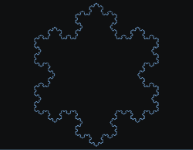
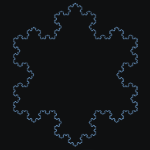
Add New Atlas & Internship projects
Resize older game thumbs to keep consistent

Fix mobile zooming by specifying viewport meta tag in head

Changed region(s): [[0.0, 0.0267, 1.0, 1.0], [0.08, 0.0267, 0.48, 0.96], [0.48, 0.0, 0.5067, 0.0267]]

diff --git a/_includes/projects.html b/_includes/projects.html
@@ -20,22 +20,36 @@
 
   <div class="row user-projects">
     <div class="six columns images">
-      <a href="/tangent"><img alt="tangent" src="{{ "/assets/img/tangent-01.jpg" | prepend: site.baseurl }}" /></a>
+      <a href="/new-atlas"><img alt="new atlas" src="{{ "/assets/img/new-atlas-thumb-02.jpg" | prepend: site.baseurl }}" /></a>
     </div>
     <div class="six columns">
-      <h5>Tangent</h5>
+      <h5>New Atlas</h5>
       <ul>
-        <!-- <li style="font-size: 0.9em; font-weight: bold">Personal project</li> -->
-        <li>C++, DirectX 11, HLSL</li>
+        <li>C++, Unreal Engine 4</li>
       </ul>
-      <p>A single-player racing game made in about a week. Utlizes geometry shaders to generate meshes based on a Bézier Curve</p>
-      <a class="project-link" href="/tangent">Check it out</a>
+      <p>Real-time strategy game made with five team members over a few months</p>
+      <a class="project-link" href="/new-atlas">Check it out</a>
     </div>
   </div>
 
+    <!--
+      <div class="row user-projects">
+        <div class="six columns images">
+          <a href="/tangent"><img alt="tangent" src="{{ "/assets/img/tangent-01.jpg" | prepend: site.baseurl }}" /></a>
+        </div>
+        <div class="six columns">
+          <h5>Tangent</h5>
+          <ul>
+            <li>C++, DirectX 11, HLSL</li>
+          </ul>
+          <p>A single-player racing game made in about a week. Utlizes geometry shaders to generate meshes based on a Bézier Curve</p>
+          <a class="project-link" href="/tangent">Check it out</a>
+        </div>
+      </div> -->
+
   <div class="row user-projects">
     <div class="six columns">
-      <a href="/redshift"><img alt="rubiks cube simulator" src="{{ "http://i.imgur.com/r5ILceh.png" | prepend: site.baseurl }}" /></a>
+      <a href="/redshift"><img alt="redshift" src="{{ "http://i.imgur.com/r5ILceh.png" | prepend: site.baseurl }}" /></a>
     </div>
     <div class="six columns">
       <h5>Redshift</h5>
@@ -48,20 +62,33 @@
     </div>
   </div>
 
-  <div class="row user-projects">
+    <div class="row user-projects">
+      <div class="six columns images">
+        <a href="/electric-square"><img alt="electric square" src="{{ "/assets/img/es-logo.jpg" | prepend: site.baseurl }}" /></a>
+      </div>
+      <div class="six columns">
+        <h5>Electric Square</h5>
+        <ul>
+          <li>C++</li>
+        </ul>
+        <p>Four month game programmer internship</p>
+        <a class="project-link" href="/electric-square">Check it out</a>
+      </div>
+    </div>
+
+  <!-- <div class="row user-projects">
     <div class="six columns images">
       <a href="/hexahover"><img alt="hexahover" src="{{ "/assets/img/hexahover-01.jpg" | prepend: site.baseurl }}" /></a>
     </div>
     <div class="six columns">
       <h5>HexaHover</h5>
       <ul>
-        <!-- <li style="font-size: 0.9em; font-weight: bold">Group game jam entry</li> -->
         <li>C#, Unity</li>
       </ul>
       <p>An entry into the Ludum Dare game jam competition made with two friends in 72 hours</p>
       <a class="project-link" href="/hexahover">Check it out</a>
     </div>
-  </div>
+  </div> -->
 
   <!-- <div class="row user-projects">
     <div class="six columns">

diff --git a/games/index.html b/games/index.html
@@ -43,27 +43,35 @@ title: Games
 
 <h2>Older Games</h2>
 
-<p>On this page you can find some of my older games. My latest and greatest work can be found on my home page <a href="https://ajweeks.com">ajweeks.com</a></p>
+<p>On this page you can find some of my older games in chronological order. My latest and greatest work can be found on the <a href="https://ajweeks.com">home page</a></p>
 
+<a href="/hexahover" class="gameBlock">
+    <div class="gamename">HexaHover</div>
+    <img src="/assets/img/hexa-hover-thumb-01.jpg" width="150" height="150">
+</a>
+<a href="/tangent" class="gameBlock">
+    <div class="gamename">Tangent</div>
+    <img src="/assets/img/tangent-thumb-01.jpg" width="150" height="150">
+</a>
 <a href="/apex-engine" class="gameBlock">
-    <div class="gamename">Crowchild (Apex Engine)</div>
+    <div class="gamename">Crowchild</div>
     <img src="/assets/img/apex-engine-logo-s.jpg" width="150" height="150">
 </a>
 <a href="/games/SuperMarioWorld" class="gameBlock">
-    <div class="gamename">Super Mario World Remake</div>
-    <img src="/assets/img/SMW_small.jpg" width="173" height="150">
+    <div class="gamename">Super Mario World</div>
+    <img src="/assets/img/SMW_thumb-01.jpg" width="150" height="150">
 </a>
 <a href="/rubiks-cube" class="gameBlock">
-    <div class="gamename">Rubiks Cube Simulator</div>
-    <img src="/assets/img/rubiks-02-small.jpg" width="171" height="150">
+    <div class="gamename">Rubiks Cube</div>
+    <img src="/assets/img/rubiks-02-small.jpg" width="150" height="150">
 </a>
 <a href="/TM495" class="gameBlock">
     <div class="gamename">TM495</div>
-    <img src="/assets/img/tm495_screenshot_01.png" width="245" height="150">
+    <img src="/assets/img/tm495_screenshot_01.png" width="150" height="150">
 </a>
 <a href="/breakout" class="gameBlock">
     <div class="gamename">Breakout</div>
-    <img src="/assets/img/breakout_screenshot.png" width="188" height="150">
+    <img src="/assets/img/breakout-thumb-01.jpg" width="150" height="150">
 </a>
 <a href="/mirrors" class="gameBlock">
     <div class="gamename">Mirrors</div>
@@ -75,15 +83,15 @@ title: Games
 </a>
 <a href="/games/koch" class="gameBlock">
     <div class="gamename">Koch Snowflake</div>
-    <img src="/assets/img/koch_screenshot.png" width="193" height="150">
+    <img src="/assets/img/koch_screenshot.jpg" width="150" height="150">
 </a>
 <a href="/games/pong" class="gameBlock">
     <div class="gamename">Pong</div>
-    <img src="/assets/img/pong_screenshot.png" width="225" height="150">
+    <img src="/assets/img/pong-thumb-01.jpg" width="150" height="150">
 </a>
 <a href="/games/circuit" class="gameBlock">
-    <div class="gamename">Electronic Circuit Simulator</div>
-    <img src="/assets/img/circuit_screenshot.png" width="158" height="150">
+    <div class="gamename">Circuit Simulator</div>
+    <img src="/assets/img/circuit-thumb-01.jpg" width="150" height="150">
 </a>
 <a href="/games/gameoflife" class="gameBlock">
     <div class="gamename">Game of Life</div>

diff --git a/css/main.scss b/css/main.scss
@@ -108,10 +108,14 @@ blockquote {
   background-repeat: no-repeat;
   background-size: cover;
   @media only screen and (max-width:550px) {
-    min-height: 210px;
+    min-height: 120px;
   }
   @media only screen and (min-width:$cut) {
-    min-height: 230px;
+    min-height: 190px;
+  }
+  .row.content {
+    top: 20px;
+    position: relative;
   }
 }
 
@@ -125,7 +129,7 @@ blockquote {
   color:#FFF;
   margin: 0 auto;
   .site-title {
-    font-size: 50px;
+    font-size: 4em;
     line-height: 1;
     text-shadow: 2px 2px 2px black;
     transition: 0.5s ease;
@@ -133,20 +137,20 @@ blockquote {
     white-space: nowrap;
     @media only screen and (min-width:$cut){
       margin: 0;
-      font-size: 80px;
+      font-size: 6em;
     }
     &:hover {
       color: #DDD;
     }
   }
   .site-description {
-    font-size: 20px;
+    font-size: 1.5em;
     line-height: 1;
     display: block;
     margin: 5px 0 10px 0;
     text-shadow: 1px 1px 2px black;
     @media only screen and (min-width:$cut) {
-      font-size: 40px;
+      font-size: 2.5em;
     }
   }
   .link {
@@ -352,6 +356,12 @@ blockquote {
   //     opacity: 1;
   //   }
   // }
+}
+
+.gamename {
+ @media only screen and (max-width: 660px) {
+   font-size: 1.0em !important;
+ }
 }
 
 .footer {

diff --git a/_includes/head.html b/_includes/head.html
@@ -6,6 +6,8 @@
   <title>{% if page.title %}{{ page.title }}{% else %}{{ site.title }}{% endif %}</title>
   <meta name="description" content="{% if page.description %}{{ page.description | strip_html | strip_newlines | truncate: 160 }}{% else %}{{ site.description }}{% endif %}">
 
+  <meta name="viewport" content="width=425">
+
   <link rel="shortcut icon" href="http://ajweeks.com/logo.ico" />
 
   <link rel="stylesheet" href="//cdnjs.cloudflare.com/ajax/libs/skeleton/2.0.4/skeleton.min.css">

diff --git a/pages/new-atlas.md b/pages/new-atlas.md
@@ -1,0 +1,41 @@
+---
+layout: default
+title:  New Atlas
+tags: ue4, unreal engine 4, game, project, c++, cpp, rts, real time strategy
+permalink: /new-atlas/
+author: AJ Weeks
+---
+
+## New Atlas
+
+- Unreal Engine 4, C++
+
+New Atlas is a real-time strategy game I made with **five other team members** over the course of a few months. My responsibilities included the entirety of the **dynamic UI system**, **camera system**, **player selection system**, as well as other smaller systems. This project was a great opportunity for me to learn how to use Unreal Engine 4 and to learn valuable skills for working in a team.
+
+ In New Atlas you control a small army of units through a 1920's era city in search for *luma* - the city's most valuable natural resource. The substance has been used for years as a power source, but recently a variant of it was discovered that, when consumed, gives you super-human speed. Use your specialist units strategically to break down those who stand in your way, while your regular units blast through them in hoards.
+
+ <div style="padding:56.25% 0 0 0;position:relative;"><iframe src="https://player.vimeo.com/video/252341564?title=0&byline=0&portrait=0" style="position:absolute;top:0;left:0;width:100%;height:100%;" frameborder="0" webkitallowfullscreen mozallowfullscreen allowfullscreen></iframe></div><script src="https://player.vimeo.com/api/player.js"></script>
+
+<p></p>
+
+<a data-fancybox="gallery" href="/assets/img/new-atlas-poster.jpg"><img src="/assets/img/new-atlas-poster.jpg" width="100%"></a>
+<a data-fancybox="gallery" href="/assets/img/new-atlas-01.jpg"><img src="/assets/img/new-atlas-01.jpg" width="100%"></a>
+<a data-fancybox="gallery" href="/assets/img/new-atlas-07.jpg"><img src="/assets/img/new-atlas-07.jpg" width="100%"></a>
+<a data-fancybox="gallery" href="/assets/img/new-atlas-06.jpg"><img src="/assets/img/new-atlas-06.jpg" width="100%"></a>
+<a data-fancybox="gallery" href="/assets/img/new-atlas-03.jpg"><img src="/assets/img/new-atlas-03.jpg" width="100%"></a>
+<a data-fancybox="gallery" href="/assets/img/new-atlas-05.jpg"><img src="/assets/img/new-atlas-05.jpg" width="100%"></a>
+<a data-fancybox="gallery" href="/assets/img/new-atlas-08.jpg"><img src="/assets/img/new-atlas-08.jpg" width="100%"></a>
+
+
+<a data-fancybox="gallery" href="/assets/img/new-atlas-UI-01.jpg"><img src="/assets/img/new-atlas-UI-01.jpg" width="100%"></a>
+<a data-fancybox="gallery" href="/assets/img/new-atlas-UI-02.jpg"><img src="/assets/img/new-atlas-UI-02.jpg" width="100%"></a>
+<p style="text-align:center; color:#999; position:relative; top: -20px">Two possible HUD states, dependent on the current selection</p>
+
+**Other team members:**
+ - [Yosha Vandaele](http://yoshavandaele.com/)
+ - [Sooi Cherchye](http://sooi.cherchye.com/)
+ - [Brian Van Hyfte](http://brianvanhyfte.com/)
+ - [Michelle Nassens](https://michellenaessens.artstation.com/)
+ - [Aidan Vangrysperre](http://aidanv.com/)
+
+You can get a better look at the development process by reading the blog posts we made along the way <a href="https://baggedmilkstudios.wordpress.com/">here</a>!

diff --git a/pages/flex-engine.md b/pages/flex-engine.md
@@ -6,11 +6,11 @@ permalink: /flex-engine/
 author: AJ Weeks
 ---
 
-## Flex Rendering Engine
+## Flex Engine
 
 - C++, Vulkan, OpenGL
 
-Flex Engine is my personal rendering engine which currently supports Vulkan and OpenGL. It was started in February 2017 as a way for me to better understand how rendering engines work.
+Flex Engine is my personal rendering/game engine which currently supports Vulkan and OpenGL. It was started in February 2017 as a way for me to better understand how rendering engines work. Recently I've been more focused on adding support for various gameplay features like audio, player input, physics, and UI.
 
 You can find the entire source code on my GitHub [<i class="icon fa fa-github" aria-hidden="true" style="color: #222"></i> github.com/ajweeks/FlexEngine](https://github.com/ajweeks/FlexEngine)
 
@@ -22,7 +22,11 @@ Follow my progress on this project on my blog at [ajweeks.wordpress.com/tag/flex
  - Image Based lighting
  - Irradiance map generation
  - Reflection probes
- - Post-processing stage
+ - Post-processing stage (contrast/brightness control, anti-aliasing, )
+ - Audio playback
+ - Physics simulation
+ - Player input handling (keyboard/mouse/gamepad)
+ - Custom level save file parsing/serializing (with support for prefabs)
 
 #### Planned Features
  - Mesh animation

diff --git a/pages/electric-square.md b/pages/electric-square.md
@@ -1,0 +1,18 @@
+---
+layout: default
+title:  Internship at Electric Square
+tags: internship, cpp, c++, games, intern
+permalink: /electric-square/
+author: AJ Weeks
+---
+
+## Internship at Electric Square
+###### *February - June 2018*
+
+- C++, Unreal Engine 4
+
+During my four month internship at [Electric Square](https://www.electricsquare.com/) I worked as a game programmer on an undisclosed project. My responsibilities included fixing bugs, working on low-level systems, and improving various systems. **This page will be updated once more info about the game is made public.**
+
+Apart from all of the technical lessons I learned during my internship I also learned many useful team skills which noticeably improved my productivity as the internship went on. After completing my internship I was offered a full-time role, which I accepted.
+
+<a data-fancybox="gallery" href="/assets/img/es-logo.jpg"><img src="/assets/img/es-logo.jpg" width="50%" style="display: block; margin: auto"></a>

diff --git a/about.md b/about.md
@@ -14,7 +14,7 @@ You can also connect with me on LinkedIn: [<i class="icon fa fa-linkedin-square"
 
 Or, if you're old-fashioned feel free to send me an email: [contact@ajweeks.com](mailto:contact@ajweeks.com)
 
-<a href="../assets/img/portrait_1.jpg"><img src="../assets/img/portrait_1.jpg" style="width: 30%; margin-left: auto; margin-right: auto"/></a>
+<img src="../assets/img/portrait_1.jpg" style="width: 30%; margin-left: auto; margin-right: auto; display: block"/>
 
 <!-- If you enjoy any of my (free) games and are feeling generous, I would greatly appreciate any donations.
 

diff --git a/pages/supermarioworld.md b/pages/supermarioworld.md
@@ -20,7 +20,7 @@ img
 }
 </style>
 
-## Super Mario World
+## Super Mario World Remake
 
 As a way to improve my game development skills and put my new knowledge of C++ to the test, I decided to remake one of most well known games of all time. I implemented the entire first level of the first world - sticking as close to the original as possible, and added a main menu, and level selection screen that look identical to the original's.
 
